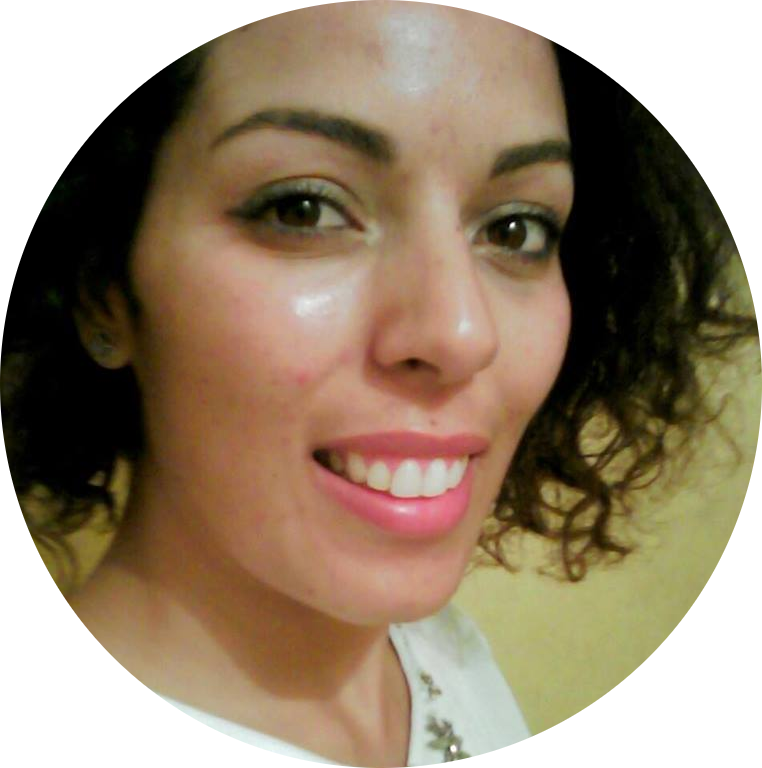
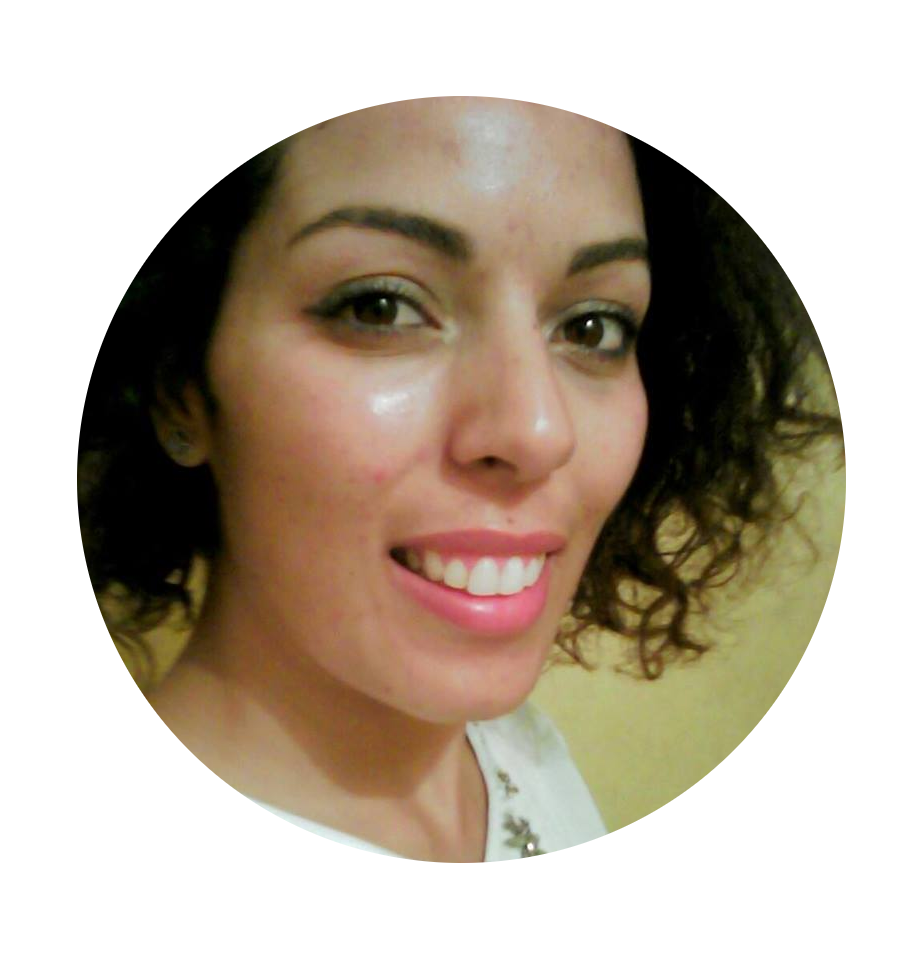
photo2

diff --git a/index.html b/index.html
@@ -47,12 +47,14 @@
         <!-- About me  -->
         <div id="aboutme"></div>
         <div class="container-fluide">
-            <div class="row bar text-center" style="height: 50vh !important;">
-                <div class="col-4 photo">
-                    <img class="cercle imgme" src="images/me.png">
-                    <img class="cercle" src="images/circles.svg">
-                    <img class="cercle rotate22" src="images/circles-1.png">
-                    <img class="cercle rotate44" src="images/circles-2.png">
+            <div class="row bar" style="height: 50vh !important;">
+                <div class="col-4">
+                    <div class="photo">
+                        <img class="cercle imgme" src="images/me.png">
+                        <img class="cercle" src="images/circles.svg">
+                        <img class="cercle rotate22" src="images/circles-1.png">
+                        <img class="cercle rotate44" src="images/circles-2.png">
+                    </div>
                 </div>
                 <div class="col-8 aboutme">
                     <h1 class="display-6 font-weight-bold">Who I am ?</h1>
@@ -97,18 +99,7 @@
                 </div>  
                 <div class="col-12" id="fixed3">
                     <div class="double d4">
-                        <div class="projet">
-                            <img class="projet1" src="images/projet1.png"></a>
-                            <img class="projet1" src="images/circles.svg">
-                            <img class="projet1 rotate22" src="images/circles-1.png">
-                            <a href="#mywork"><img class="projet1 rotate44" src="images/circles-2.png"></a>
-                        </div>
-                        <div class="projet">
-                            <img class="projet2" src="images/projet2.png">
-                            <img class="projet2" src="images/circles.svg">
-                            <img class="projet2 rotate22" src="images/circles-1.png">
-                            <a href="#mywork"><img class="projet2 rotate44" src="images/circles-2.png"></a>
-                        </div>       
+                            
                     </div> 
                 </div>
             </div>

diff --git a/css/style.css b/css/style.css
@@ -4,10 +4,6 @@ html,body {
     padding: 0px;
     font-family: 'Courier New', Courier, monospace !important;
 }
-figure {
-    padding: 0;
-    margin: 0;
-}
 [class*="col"] {
     padding: 0;
 }
@@ -61,16 +57,19 @@ figure {
 }
 /* ------aboutme----- */
 .photo {
+    position: absolute;
+    top:10px;
+    left:30px;
     width: 250px;
     height: 250px;
     border-radius: 50%;
-    margin: 40px 80px;
+    margin: 35px 60px;
 }
 .imgme {
-    width: 200px !important; 
-    height: 200px !important;
-    top:10% !important;
-    left:8% !important;
+    width: 97% !important;
+    top:0% !important;
+    left:1% !important;
+    display: block;
 }
 .cercle {
     position: absolute;
@@ -87,10 +86,10 @@ figure {
 }
 .aboutme {
     text-align: center;
-    padding: 10px 30px !important;
+    padding: 10px 50px 10px 0px !important;
 }
 .aboutme h1 {
-    margin: 70px 0 15px 0;
+    margin: 50px 0 10px 0;
 }
 #fixed2 {
     background-image: url(../images/font2.png);
@@ -113,6 +112,7 @@ figure {
     height: 120px;
     background-color: #141414;
     color: #eee8e8;
+    margin: 0;
 }
 .bar h1 {
     margin: 40px 0;
